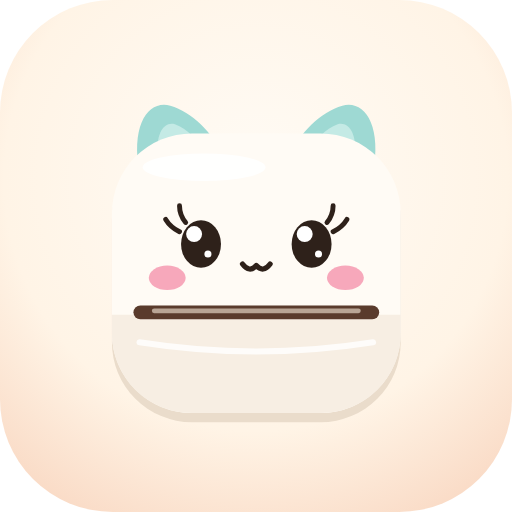
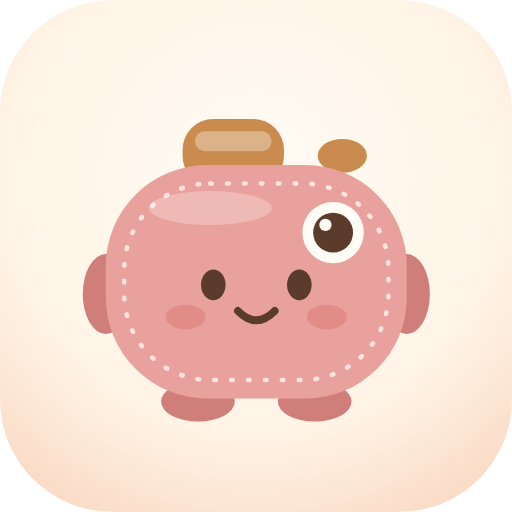
Bring back the pink plush camera mascot
Claude-Session: https://claude.ai/code/session_019e3KwpeE8j9ss5236kS2wN

Changed region(s): [[0.1562, 0.1875, 0.8438, 0.8438]]

diff --git a/index.html b/index.html
@@ -236,34 +236,28 @@ h2{font-size:clamp(30px,5vw,52px);line-height:1.08}
   <!-- 1. Lure: never dims -->
   <section class="screen active" data-screen="home" aria-label="Главный экран">
     <div class="plush-stage">
-      <div class="plush-wrap" id="plush" role="img" aria-label="Котик-принтер">
-        <svg class="breathe" viewBox="0 0 240 240" aria-hidden="true">
-          <!-- ears -->
-          <path d="M44 66 C38 34 50 18 64 22 C78 26 92 40 98 54 Z" fill="#9ED9D3"/>
-          <path d="M196 66 C202 34 190 18 176 22 C162 26 148 40 142 54 Z" fill="#9ED9D3"/>
-          <path d="M56 56 C54 40 60 32 67 34 C75 37 82 44 85 52 Z" fill="#C4EAE5"/>
-          <path d="M184 56 C186 40 180 32 173 34 C165 37 158 44 155 52 Z" fill="#C4EAE5"/>
-          <!-- body -->
-          <rect x="26" y="44" width="188" height="184" rx="52" fill="#EADCCB"/>
-          <rect x="26" y="40" width="188" height="182" rx="52" fill="#FFFBF5"/>
-          <ellipse cx="86" cy="62" rx="40" ry="9" fill="#FFFFFF" opacity=".9"/>
-          <!-- paper exit lid -->
-          <path d="M26 158 H214 V170 C214 199 191 222 162 222 H78 C49 222 26 199 26 170 Z" fill="#F7EEE3"/>
-          <rect x="40" y="152" width="160" height="9" rx="4.5" fill="#5A3B2C"/>
-          <rect x="52" y="154" width="136" height="3" rx="1.5" fill="#B9A595"/>
-          <path d="M44 176 Q120 188 196 176" stroke="#FFFFFF" stroke-width="4" fill="none" stroke-linecap="round" opacity=".8"/>
-          <!-- face: big soft eyes, tiny mouth -->
+      <div class="plush-wrap" id="plush" role="img" aria-label="Плюшевый фотоаппарат">
+        <svg class="breathe" viewBox="0 0 240 230" aria-hidden="true">
+          <ellipse cx="22" cy="140" rx="15" ry="26" fill="#CF7E7A"/>
+          <ellipse cx="218" cy="140" rx="15" ry="26" fill="#CF7E7A"/>
+          <ellipse cx="82" cy="210" rx="24" ry="13" fill="#CF7E7A"/>
+          <ellipse cx="158" cy="210" rx="24" ry="13" fill="#CF7E7A"/>
+          <rect x="72" y="26" width="66" height="44" rx="20" fill="#C98B4E"/>
+          <rect x="80" y="34" width="50" height="13" rx="6.5" fill="#FFFBF5" opacity=".35"/>
+          <ellipse cx="176" cy="50" rx="16" ry="11" fill="#C98B4E"/>
+          <rect x="22" y="56" width="196" height="152" rx="66" fill="#E9A19D"/>
+          <rect x="34" y="68" width="172" height="128" rx="56" fill="none" stroke="#FFFBF5" stroke-opacity=".75" stroke-width="3" stroke-dasharray="1 10" stroke-linecap="round"/>
+          <ellipse cx="90" cy="84" rx="40" ry="11" fill="#FFFBF5" opacity=".28"/>
+          <circle cx="170" cy="100" r="20" fill="#FFFBF5"/>
+          <circle cx="170" cy="100" r="13" fill="#5A3B2C"/>
+          <circle cx="165" cy="95" r="4" fill="#FFFBF5"/>
           <g class="eyes">
-            <path d="M70 104 Q64 101 61 96 M74 98 Q70 93 70 87" stroke="#2E211A" stroke-width="3.2" fill="none" stroke-linecap="round"/>
-            <path d="M170 104 Q176 101 179 96 M166 98 Q170 93 170 87" stroke="#2E211A" stroke-width="3.2" fill="none" stroke-linecap="round"/>
-            <ellipse cx="84" cy="112" rx="13" ry="15.5" fill="#2E211A"/>
-            <ellipse cx="156" cy="112" rx="13" ry="15.5" fill="#2E211A"/>
-            <circle cx="79.5" cy="105.5" r="5.2" fill="#FFFFFF"/><circle cx="151.5" cy="105.5" r="5.2" fill="#FFFFFF"/>
-            <circle cx="88.5" cy="118.5" r="2.3" fill="#FFFFFF"/><circle cx="160.5" cy="118.5" r="2.3" fill="#FFFFFF"/>
+            <ellipse cx="92" cy="134" rx="8" ry="10" fill="#5A3B2C"/>
+            <ellipse cx="148" cy="134" rx="8" ry="10" fill="#5A3B2C"/>
           </g>
-          <ellipse cx="62" cy="134" rx="12" ry="8" fill="#F7A8BB"/>
-          <ellipse cx="178" cy="134" rx="12" ry="8" fill="#F7A8BB"/>
-          <path d="M111 125 Q115.5 131 120 126 Q124.5 131 129 125" stroke="#2E211A" stroke-width="3.4" fill="none" stroke-linecap="round" stroke-linejoin="round"/>
+          <ellipse cx="74" cy="155" rx="13" ry="8" fill="#D9736E" opacity=".45"/>
+          <ellipse cx="166" cy="155" rx="13" ry="8" fill="#D9736E" opacity=".45"/>
+          <path d="M108 151 Q120 163 132 151" stroke="#5A3B2C" stroke-width="5" fill="none" stroke-linecap="round"/>
         </svg>
       </div>
       <div class="ground" aria-hidden="true"></div>
@@ -333,19 +327,16 @@ h2{font-size:clamp(30px,5vw,52px);line-height:1.08}
     <div class="printer" id="printer">
       <svg id="printerSvg" viewBox="0 0 260 124" aria-hidden="true">
         <g class="pbody">
-          <path d="M48 34 C43 10 53 -2 65 2 C77 6 88 16 93 28 Z" fill="#9ED9D3"/>
-          <path d="M212 34 C217 10 207 -2 195 2 C183 6 172 16 167 28 Z" fill="#9ED9D3"/>
-          <rect x="30" y="18" width="200" height="100" rx="42" fill="#EADCCB"/>
-          <rect x="30" y="14" width="200" height="98" rx="42" fill="#FFFBF5"/>
-          <ellipse cx="88" cy="28" rx="36" ry="6" fill="#FFFFFF" opacity=".9"/>
+          <rect x="14" y="8" width="232" height="104" rx="46" fill="#C98B4E"/>
+          <rect x="26" y="20" width="208" height="80" rx="36" fill="none" stroke="#FFFBF5" stroke-opacity=".65" stroke-width="3" stroke-dasharray="1 10" stroke-linecap="round"/>
+          <ellipse cx="84" cy="30" rx="36" ry="8" fill="#FFFBF5" opacity=".25"/>
           <g class="eyes">
-            <ellipse cx="104" cy="56" rx="10" ry="12" fill="#2E211A"/><ellipse cx="156" cy="56" rx="10" ry="12" fill="#2E211A"/>
-            <circle cx="100.5" cy="51" r="4" fill="#FFFFFF"/><circle cx="152.5" cy="51" r="4" fill="#FFFFFF"/>
-            <circle cx="107.5" cy="61" r="1.8" fill="#FFFFFF"/><circle cx="159.5" cy="61" r="1.8" fill="#FFFFFF"/>
+            <ellipse cx="100" cy="56" rx="7" ry="9" fill="#5A3B2C"/>
+            <ellipse cx="160" cy="56" rx="7" ry="9" fill="#5A3B2C"/>
           </g>
-          <ellipse cx="84" cy="72" rx="10" ry="6.5" fill="#F7A8BB"/>
-          <ellipse cx="176" cy="72" rx="10" ry="6.5" fill="#F7A8BB"/>
-          <path class="mouth" d="M123 69 Q126.5 74 130 70 Q133.5 74 137 69" stroke="#2E211A" stroke-width="3" fill="none" stroke-linecap="round" stroke-linejoin="round"/>
+          <ellipse cx="80" cy="73" rx="11" ry="7" fill="#E9A19D" opacity=".85"/>
+          <ellipse cx="180" cy="73" rx="11" ry="7" fill="#E9A19D" opacity=".85"/>
+          <path class="mouth" d="M120 70 Q130 80 140 70" stroke="#5A3B2C" stroke-width="4.5" fill="none" stroke-linecap="round"/>
           <rect x="54" y="98" width="152" height="12" rx="6" fill="#5A3B2C"/>
         </g>
       </svg>
@@ -391,7 +382,7 @@ h2{font-size:clamp(30px,5vw,52px);line-height:1.08}
 
 <script>
 /* ===== Settings for the cafe ===== */
-const APP_VERSION = '1.6';
+const APP_VERSION = '1.7';
 const CONFIG = {
   cafeName: 'Ваша кофейня',        // printed at the top of the receipt
   handleLabel: 'Мы в сети',        // line above the handle, no platform named

diff --git a/sw.js b/sw.js
@@ -1,6 +1,6 @@
 /* Photo booth service worker: works offline, picks up new versions when online.
    Bump CACHE on every release. */
-const CACHE = 'booth-v1.6';
+const CACHE = 'booth-v1.7';
 const CORE = ['./', './index.html', './manifest.webmanifest', './icon-192.png', './icon-512.png'];
 
 self.addEventListener('install', e => {
